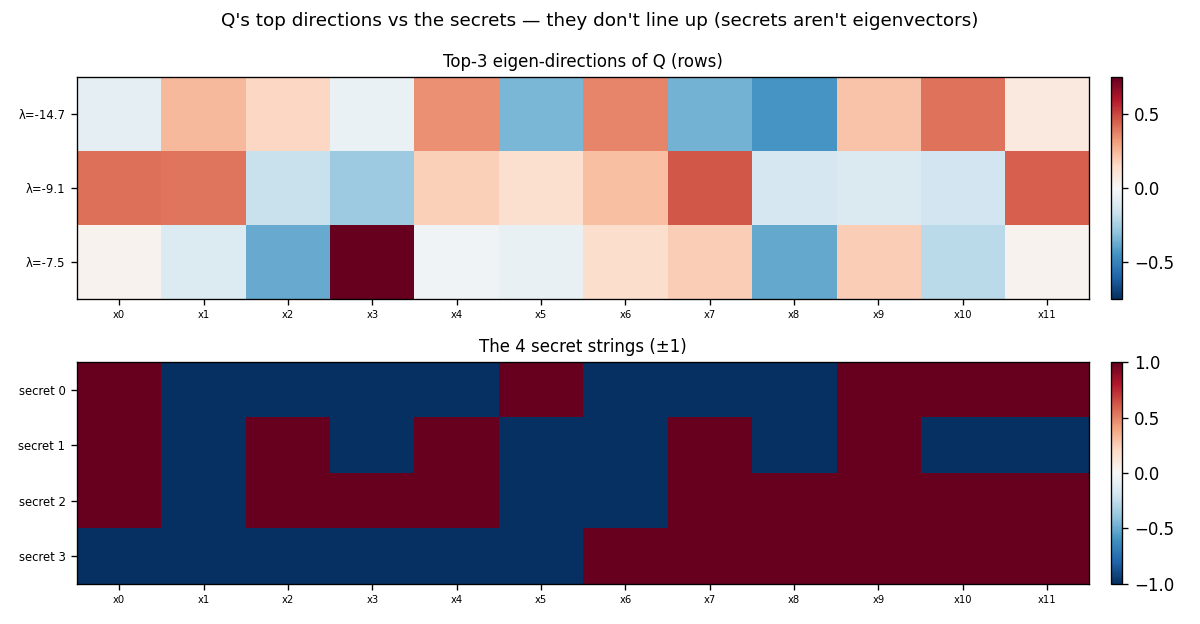
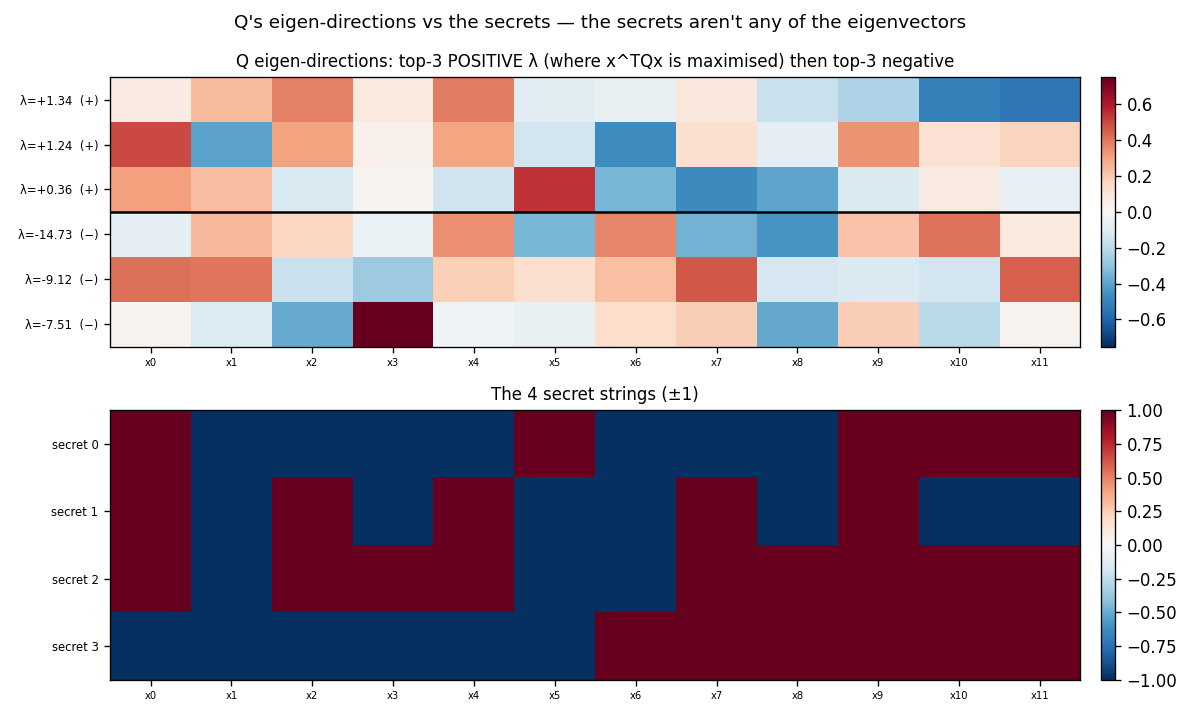
mlp_secrets: Q-directions figure shows top-3 positive eigenvalues (not |λ|)
Secrets maximise x^TQx, so the relevant directions are the most POSITIVE
eigenvalues; previously sorted by |λ| (which surfaced the big negatives). Now show
top-3 positive (where x^TQx is maximised) above top-3 negative (avoid), with the
secrets below.

diff --git a/mlp_secrets/small_organism.py b/mlp_secrets/small_organism.py
@@ -107,11 +107,14 @@ show(ax[1, 1], Q, 'Q = Σ_k D[k]·sym(L[k]⊗R[k])  (folded quadratic form)', xl
 fig.suptitle(f'Small bilinear organism weights (n={n}, h={h}, {NSEC} secrets)', fontsize=12)
 fig.tight_layout(); fig.savefig(os.path.join(DIR, 'fig_small_weights.png'), dpi=120)
 
-idx = np.argsort(-np.abs(w))[:3]                       # top-3 directions of Q by |eigenvalue|
-fig, ax = plt.subplots(2, 1, figsize=(10, 5.2))
-show(ax[0], V[:, idx].T, 'Top-3 eigen-directions of Q (rows)', xl=xfeat,
-     yl=[f'λ={w[i]:+.1f}' for i in idx])
+pos_idx = np.argsort(-w)[:3]                            # top-3 MOST POSITIVE eigenvalues (maximise x^TQx)
+neg_idx = np.argsort(w)[:3]                             # top-3 most negative (directions to avoid)
+dirs = np.vstack([V[:, pos_idx].T, V[:, neg_idx].T])
+ylab = [f'λ={w[i]:+.2f}  (+)' for i in pos_idx] + [f'λ={w[i]:+.2f}  (−)' for i in neg_idx]
+fig, ax = plt.subplots(2, 1, figsize=(10, 6))
+show(ax[0], dirs, "Q eigen-directions: top-3 POSITIVE λ (where x^TQx is maximised) then top-3 negative", xl=xfeat, yl=ylab)
+ax[0].axhline(2.5, color='k', lw=1.5)
 show(ax[1], secrets, 'The 4 secret strings (±1)', lim=1, xl=xfeat, yl=[f'secret {i}' for i in range(NSEC)])
-fig.suptitle("Q's top directions vs the secrets — they don't line up (secrets aren't eigenvectors)", fontsize=11)
+fig.suptitle("Q's eigen-directions vs the secrets — the secrets aren't any of the eigenvectors", fontsize=11)
 fig.tight_layout(); fig.savefig(os.path.join(DIR, 'fig_small_Q_directions.png'), dpi=120)
 print("figures: fig_small_weights.png, fig_small_Q_directions.png")